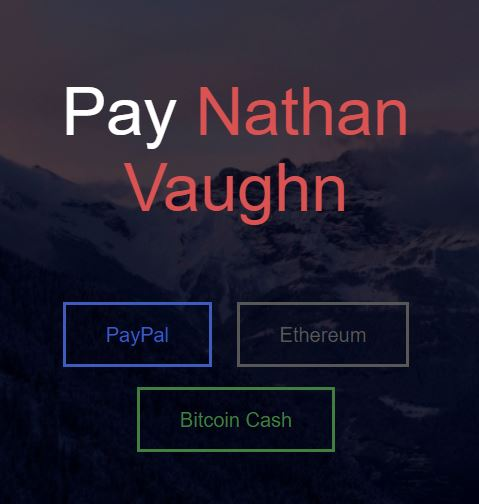
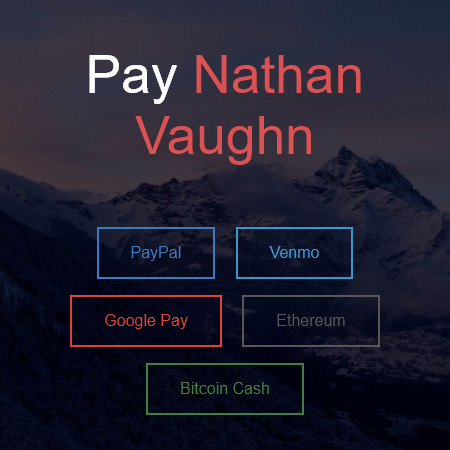
Automate workflows, small changes

Changed region(s): [[0.0, 0.1244, 1.0, 0.9333], [0.9022, 0.4978, 0.9956, 0.5911], [0.9333, 0.6222, 0.9644, 0.6533]]

diff --git a/index.html b/index.html
@@ -7,11 +7,13 @@
     <meta name="description" content="Give Nathan Vaughn Money">
     <meta name="author" content="Nathan Vaughn">
     <meta name="viewport" content="width=device-width, initial-scale=1.0">
+    <meta name="theme-color" content="#2F2E40">
     <link rel="icon" type="image/png" href="img/benny.png" />
     <meta property="og:title" content="Give Nathan Vaughn Money" />
     <meta property="og:url" content="https://pay.nathanv.me" />
     <meta property="og:description" content="Look, college ain't gonna pay for itself." />
     <meta property="og:image" content="https://pay.nathanv.me/img/opg.jpg" />
+    <link rel="canonical" href="https://pay.nathanv.me">
 </head>
 
 <body>
@@ -20,6 +22,7 @@
         </h1>
         <button onclick="this.blur();window.open('https://paypal.me/NAVaughn', '_blank');" class="raise paypal">PayPal</button>
         <button onclick="this.blur();window.open('https://www.venmo.com/NathanVaughn', '_blank');" class="raise venmo">Venmo</button>
+        <button onclick="this.blur();window.open('https://pay.google.com/payments/u/0/home#sendRequestMoney', '_blank');" class="raise google">Google Pay</button>
         <button onclick="this.blur();document.getElementById('address').innerHTML = '0xd326FBAEBbfbFb1A630804E11a5E5E04f856853c';"
             class="raise ethereum">Ethereum</button>
         <button onclick="this.blur();document.getElementById('address').innerHTML = '1EKgN7bAVWBu6GdLMmKnjCSzvqgkkkJo8W';"
@@ -36,13 +39,18 @@
     }
 
     .paypal {
-        --color: #3e5cbe;
-        --hover: #6b7afc;
+        --color: #3b7bbf;
+        --hover: #689bd0;
     }
 
     .venmo {
         --color: #3d95ce;
-        --hover: #6fb4e0;
+        --hover: #dce0e6;
+    }
+
+    .google {
+        --color: #DB4437;
+        --hover: #e78279;
     }
 
     .ethereum {

diff --git a/screenshot.js b/screenshot.js
@@ -1,0 +1,18 @@
+const capture = require('capture-chrome');
+const fs = require('fs');
+const pngToJpeg = require('png-to-jpeg');
+
+capture({
+  url: 'http://localhost:8080',
+  width: 450,
+  height: 450
+}).then(screenshot => {
+  fs.writeFileSync('img/opg.png', screenshot);
+  console.log('Screenshot taken');
+  let buffer = fs.readFileSync('img/opg.png');
+  pngToJpeg({
+      quality: 90
+    })(buffer)
+    .then(output => fs.writeFileSync('img/opg.jpg', output));
+  fs.unlinkSync('img/opg.png');
+});
